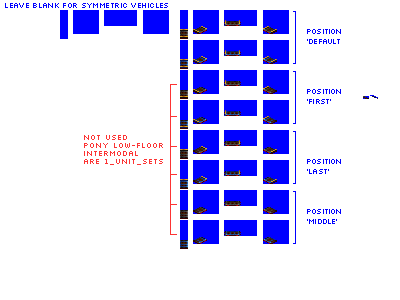
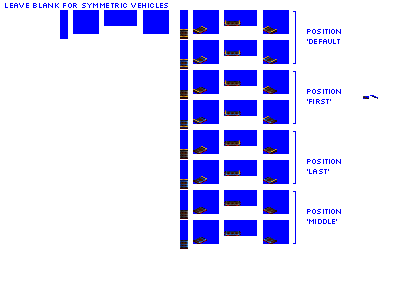
Change: randomised liveries for automobile cars and intermodal cars

diff --git a/src/train/model_type.py b/src/train/model_type.py
@@ -2394,10 +2394,18 @@ class AutomobileCarBase(CarModelTypeBase):
     """
 
     liveries = [
-        "COMPANY_COLOUR_NO_WEATHERING",
+        "RANDOM_LIVERIES_COMPLEMENT_COMPANY_COLOUR_NO_WEATHERING",
+        "RANDOM_LIVERIES_VARIETY_MUTED_EARTH_NO_WEATHERING",
+        "RANDOM_LIVERIES_RUBY_GREY_NIGHTSHADE_NO_WEATHERING",
+        "RANDOM_LIVERIES_OCHRE_SAND_NO_WEATHERING",
+        "RANDOM_LIVERIES_SILVER_GREY_PEWTER_NO_WEATHERING",
+        "RANDOM_LIVERIES_CLOVER_OCHRE_SULPHUR_NO_WEATHERING",
+        "RANDOM_LIVERIES_TEAL_PEWTER_SILVER_NO_WEATHERING",
+        "RANDOM_LIVERIES_GREY_RUST_NIGHTSHADE_NO_WEATHERING",
         "COMPLEMENT_COMPANY_COLOUR_NO_WEATHERING",
-        "FREIGHT_PEWTER",
-        "FREIGHT_BONUS_TEAL",
+        "COMPANY_COLOUR_NO_WEATHERING",
+        "FREIGHT_BONUS_OXIDE_RUST_NO_WEATHERING",
+        "FREIGHT_BONUS_TEAL_NO_WEATHERING",
     ]
 
     def __init__(self, **kwargs):
@@ -5206,8 +5214,20 @@ class IntermodalCarBase(CarModelTypeBase):
     General cargo - refits everything except mail, pax.
     """
 
-    # as of April 2025, company colour isn't used for default intermodal sprites
-    liveries = ["VANILLA"]  # no recolours
+    liveries = [
+        "RANDOM_LIVERIES_COMPLEMENT_COMPANY_COLOUR_NO_WEATHERING",
+        "RANDOM_LIVERIES_VARIETY_MUTED_EARTH_NO_WEATHERING",
+        "RANDOM_LIVERIES_RUBY_GREY_NIGHTSHADE_NO_WEATHERING",
+        "RANDOM_LIVERIES_OCHRE_SAND_NO_WEATHERING",
+        "RANDOM_LIVERIES_SILVER_GREY_PEWTER_NO_WEATHERING",
+        "RANDOM_LIVERIES_CLOVER_OCHRE_SULPHUR_NO_WEATHERING",
+        "RANDOM_LIVERIES_TEAL_PEWTER_SILVER_NO_WEATHERING",
+        "RANDOM_LIVERIES_GREY_RUST_NIGHTSHADE_NO_WEATHERING",
+        "COMPLEMENT_COMPANY_COLOUR_NO_WEATHERING",
+        "COMPANY_COLOUR_NO_WEATHERING",
+        "FREIGHT_BONUS_OXIDE_RUST_NO_WEATHERING",
+        "FREIGHT_BONUS_TEAL_NO_WEATHERING",
+    ]
 
     def __init__(self, **kwargs):
         super().__init__(**kwargs)

diff --git a/src/pseudo_random_vehicle_maps/freight_ruleset_maps.py b/src/pseudo_random_vehicle_maps/freight_ruleset_maps.py
@@ -1,3 +1,4 @@
+""
 """
 Deterministic entropic formation maps for ruleset-based vehicle rendering.
 
@@ -11,6 +12,7 @@ run-lengths of 1–4. Each run is built with sprite roles:
 Each ruleset defines its own constraints:
   - "max_4_unit_sets": allows inner vehicles, max run length 4
   - "max_2_unit_sets": no inner vehicles, max run length 2
+  - "max_1_unit_sets": single units only, no runs (each vehicle is separate)
 
 Used in NML rulesets to drive:
   - Sprite role selection
@@ -38,6 +40,7 @@ DEFAULT_MAX_LENGTH = 64
 RULESET_CONFIG = {
     "max_4_unit_sets": {"allow_inner": True, "max_run_length": 4},
     "max_2_unit_sets": {"allow_inner": False, "max_run_length": 2},
+    "max_1_unit_sets": {"allow_inner": False, "max_run_length": 1},
 }
 
 def generate_entropic_run(run_length: int, allow_inner: bool = True) -> list[int]:
@@ -66,7 +69,7 @@ def generate_base_maps_for_ruleset(seed_index: int, config: dict) -> list[int]:
                 run_len = rng.choice([1, 2, 3, 4])
                 run_len = min(run_len, config["max_run_length"], remaining)
         else:
-            run_len = rng.choice([1, 2]) if remaining >= 2 else 1
+            run_len = min(rng.choice([1, 2]), config["max_run_length"], remaining)
 
         run = generate_entropic_run(run_len, allow_inner=config["allow_inner"])
         formation.extend(run)
@@ -143,7 +146,7 @@ if __name__ == "__main__":
 
     print("\nRun-level randomization preview:")
     run_maps = generate_map_for_random_choices(8)
-    for i, category in enumerate(RULESET_CONFIG):
+    for category in RULESET_CONFIG:
         sample_form = result[category][0]
         sample_runs = run_maps[category][0]
         print(f"  → {category} map 0:")

diff --git a/src/vehicles/pony/intermodal_cars_pony.py b/src/vehicles/pony/intermodal_cars_pony.py
@@ -22,7 +22,7 @@ def main(**kwargs):
 
     model_def = ModelDef(
         class_name="IntermodalCarUnit",
-        base_numeric_id=28360,
+        base_numeric_id=35490,
         gen=3,
         intro_year_offset=15,  # let's be a little bit later for this one
         subtype="B",
@@ -50,7 +50,7 @@ def main(**kwargs):
 
     model_def = ModelDef(
         class_name="IntermodalCarUnit",
-        base_numeric_id=28380,
+        base_numeric_id=35510,
         gen=4,
         subtype="B",
         sprites_complete=True,
@@ -74,7 +74,7 @@ def main(**kwargs):
 
     model_def = ModelDef(
         class_name="IntermodalCarUnit",
-        base_numeric_id=28400,
+        base_numeric_id=34840,
         gen=5,
         subtype="A",
         sprites_complete=True,
@@ -102,7 +102,7 @@ def main(**kwargs):
 
     model_def = ModelDef(
         class_name="IntermodalCarUnit",
-        base_numeric_id=28420,
+        base_numeric_id=34860,
         gen=5,
         subtype="C",
         sprites_complete=True,

diff --git a/src/vehicles/pony/automobile_cars_pony.py b/src/vehicles/pony/automobile_cars_pony.py
@@ -40,7 +40,7 @@ def main(**kwargs):
 
     model_def = ModelDef(
         class_name="AutomobileSingleDeckCar",
-        base_numeric_id=24800,
+        base_numeric_id=35150,
         gen=3,
         subtype="C",
         sprites_complete=True,
@@ -54,7 +54,7 @@ def main(**kwargs):
 
     model_def = ModelDef(
         class_name="AutomobileSingleDeckCar",
-        base_numeric_id=22550,
+        base_numeric_id=35110,
         gen=4,
         subtype="B",
         sprites_complete=True,
@@ -68,7 +68,7 @@ def main(**kwargs):
 
     model_def = ModelDef(
         class_name="AutomobileSingleDeckCar",
-        base_numeric_id=24770,
+        base_numeric_id=35130,
         gen=4,
         subtype="C",
         sprites_complete=True,
@@ -82,7 +82,7 @@ def main(**kwargs):
 
     model_def = ModelDef(
         class_name="AutomobileSingleDeckCar",
-        base_numeric_id=22560,
+        base_numeric_id=35170,
         gen=5,
         subtype="B",
         sprites_complete=True,

diff --git a/src/vehicles/pony/low_floor_intermodal_cars_pony.py b/src/vehicles/pony/low_floor_intermodal_cars_pony.py
@@ -12,7 +12,7 @@ def main(**kwargs):
         gen=5,
         subtype="A",
         sprites_complete=True,
-        formation_ruleset="1_unit_sets",  # special case for single unit low-floor intermodals (they're PFAs eh)
+        formation_ruleset="2_unit_sets",  # special case for single unit low-floor intermodals (they're PFAs eh)
     )
 
     model_def.add_unit_def(
@@ -23,7 +23,7 @@ def main(**kwargs):
 
     model_def = ModelDef(
         class_name="IntermodalLowFloorCar",
-        base_numeric_id=24460,
+        base_numeric_id=35050,
         gen=5,
         subtype="B",
         sprites_complete=True,
@@ -37,7 +37,7 @@ def main(**kwargs):
 
     model_def = ModelDef(
         class_name="IntermodalLowFloorCar",
-        base_numeric_id=24470,
+        base_numeric_id=35860,
         gen=5,
         subtype="C",
         sprites_complete=True,

diff --git a/src/vehicles/pony/double_deck_automobile_cars_pony.py b/src/vehicles/pony/double_deck_automobile_cars_pony.py
@@ -22,7 +22,7 @@ def main(**kwargs):
 
     model_def = ModelDef(
         class_name="AutomobileDoubleDeckCar",
-        base_numeric_id=30890,
+        base_numeric_id=36610,
         gen=4,
         subtype="C",
         sprites_complete=True,
@@ -37,7 +37,7 @@ def main(**kwargs):
 
     model_def = ModelDef(
         class_name="AutomobileDoubleDeckCar",
-        base_numeric_id=26770,
+        base_numeric_id=35090,
         gen=5,
         subtype="B",
         sprites_complete=True,
@@ -51,7 +51,7 @@ def main(**kwargs):
 
     model_def = ModelDef(
         class_name="AutomobileDoubleDeckCar",
-        base_numeric_id=17330,
+        base_numeric_id=35190,
         gen=5,
         subtype="C",
         sprites_complete=True,

diff --git a/src/global_constants.py b/src/global_constants.py
@@ -855,7 +855,7 @@ temp_storage_map = dict(
     # deprecated=21,  # no longer used
     unreversible_spritelayer_cargos=22,  # used to handle esoteric cases where spritelayer cargos need to reverse
     formation_position_rule_num=23,  # used to store result of switch_graphics_pax_car_ruleset() and similar
-    # deprecated=24,  # no longer used
+    wagon_recolour_random_livery_choice_num=24,  # used to store the pre-chosen random livery choice passed to the livery resolver
     wagon_recolour_livery_num_0=25,  # used in procedures_wagon_recolour_strategies
     wagon_recolour_livery_num_1=26,  # used in procedures_wagon_recolour_strategies
     wagon_recolour_livery_num_2=27,  # used in procedures_wagon_recolour_strategies

diff --git a/src/vehicles/pony/low_floor_automobile_cars_pony.py b/src/vehicles/pony/low_floor_automobile_cars_pony.py
@@ -23,7 +23,7 @@ def main(**kwargs):
 
     model_def = ModelDef(
         class_name="AutomobileLowFloorCar",
-        base_numeric_id=26730,
+        base_numeric_id=33040,
         gen=4,
         subtype="C",
         sprites_complete=True,
@@ -52,7 +52,7 @@ def main(**kwargs):
 
     model_def = ModelDef(
         class_name="AutomobileLowFloorCar",
-        base_numeric_id=26750,
+        base_numeric_id=35070,
         gen=5,
         subtype="C",
         sprites_complete=True,

diff --git a/src/vehicles/ibex/high_power_railcar_5.py b/src/vehicles/ibex/high_power_railcar_5.py
@@ -7,7 +7,7 @@ def main(**kwargs):
     model_def = ModelDef(
         class_name="SimpleEngine",
         model_id="high_power_railcar_5",
-        base_numeric_id=35200,
+        base_numeric_id=32250,
         name="SBB RBDe 560",
         subrole="high_power_railcar",
         subrole_child_branch_num=1,

diff --git a/src/vehicles/ibex/re_430_lion.py b/src/vehicles/ibex/re_430_lion.py
@@ -7,7 +7,7 @@ def main(**kwargs):
     model_def = ModelDef(
         class_name="SimpleEngine",
         model_id="re_430_lion",
-        base_numeric_id=35190,
+        base_numeric_id=30520,
         name="Re 430 LION",
         subrole="ultra_heavy_freight",
         subrole_child_branch_num=1,

diff --git a/src/vehicles/ibex/obb_1042.py b/src/vehicles/ibex/obb_1042.py
@@ -7,7 +7,7 @@ def main(**kwargs):
     model_def = ModelDef(
         class_name="SimpleEngine",
         model_id="obb_1042",
-        base_numeric_id=35170,
+        base_numeric_id=28490,
         name="OBB 1042",
         subrole="ultra_heavy_express",
         subrole_child_branch_num=1,

diff --git a/src/vehicles/ibex/obb_1044.py b/src/vehicles/ibex/obb_1044.py
@@ -7,7 +7,7 @@ def main(**kwargs):
     model_def = ModelDef(
         class_name="SimpleEngine",
         model_id="obb_1044",
-        base_numeric_id=35160,
+        base_numeric_id=30750,
         name="OBB 1044",
         subrole="ultra_heavy_express",
         subrole_child_branch_num=4,
